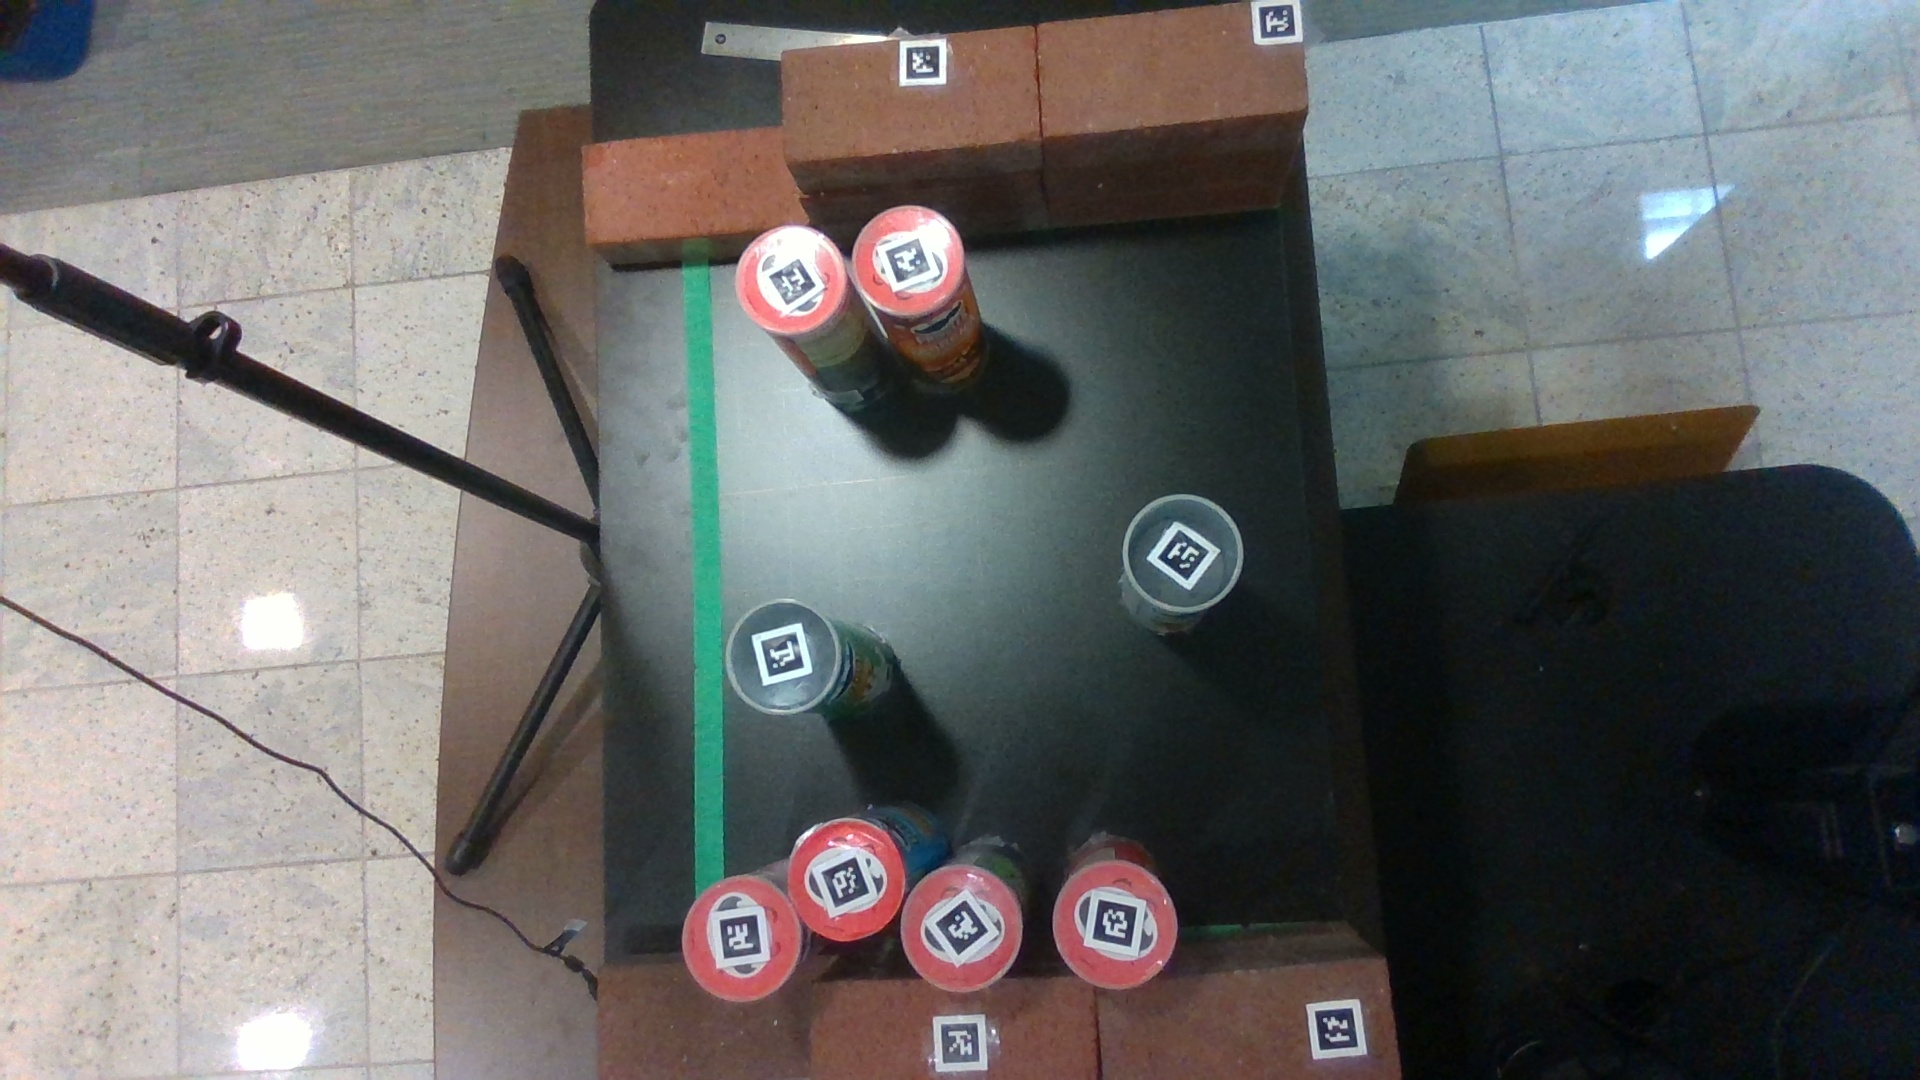
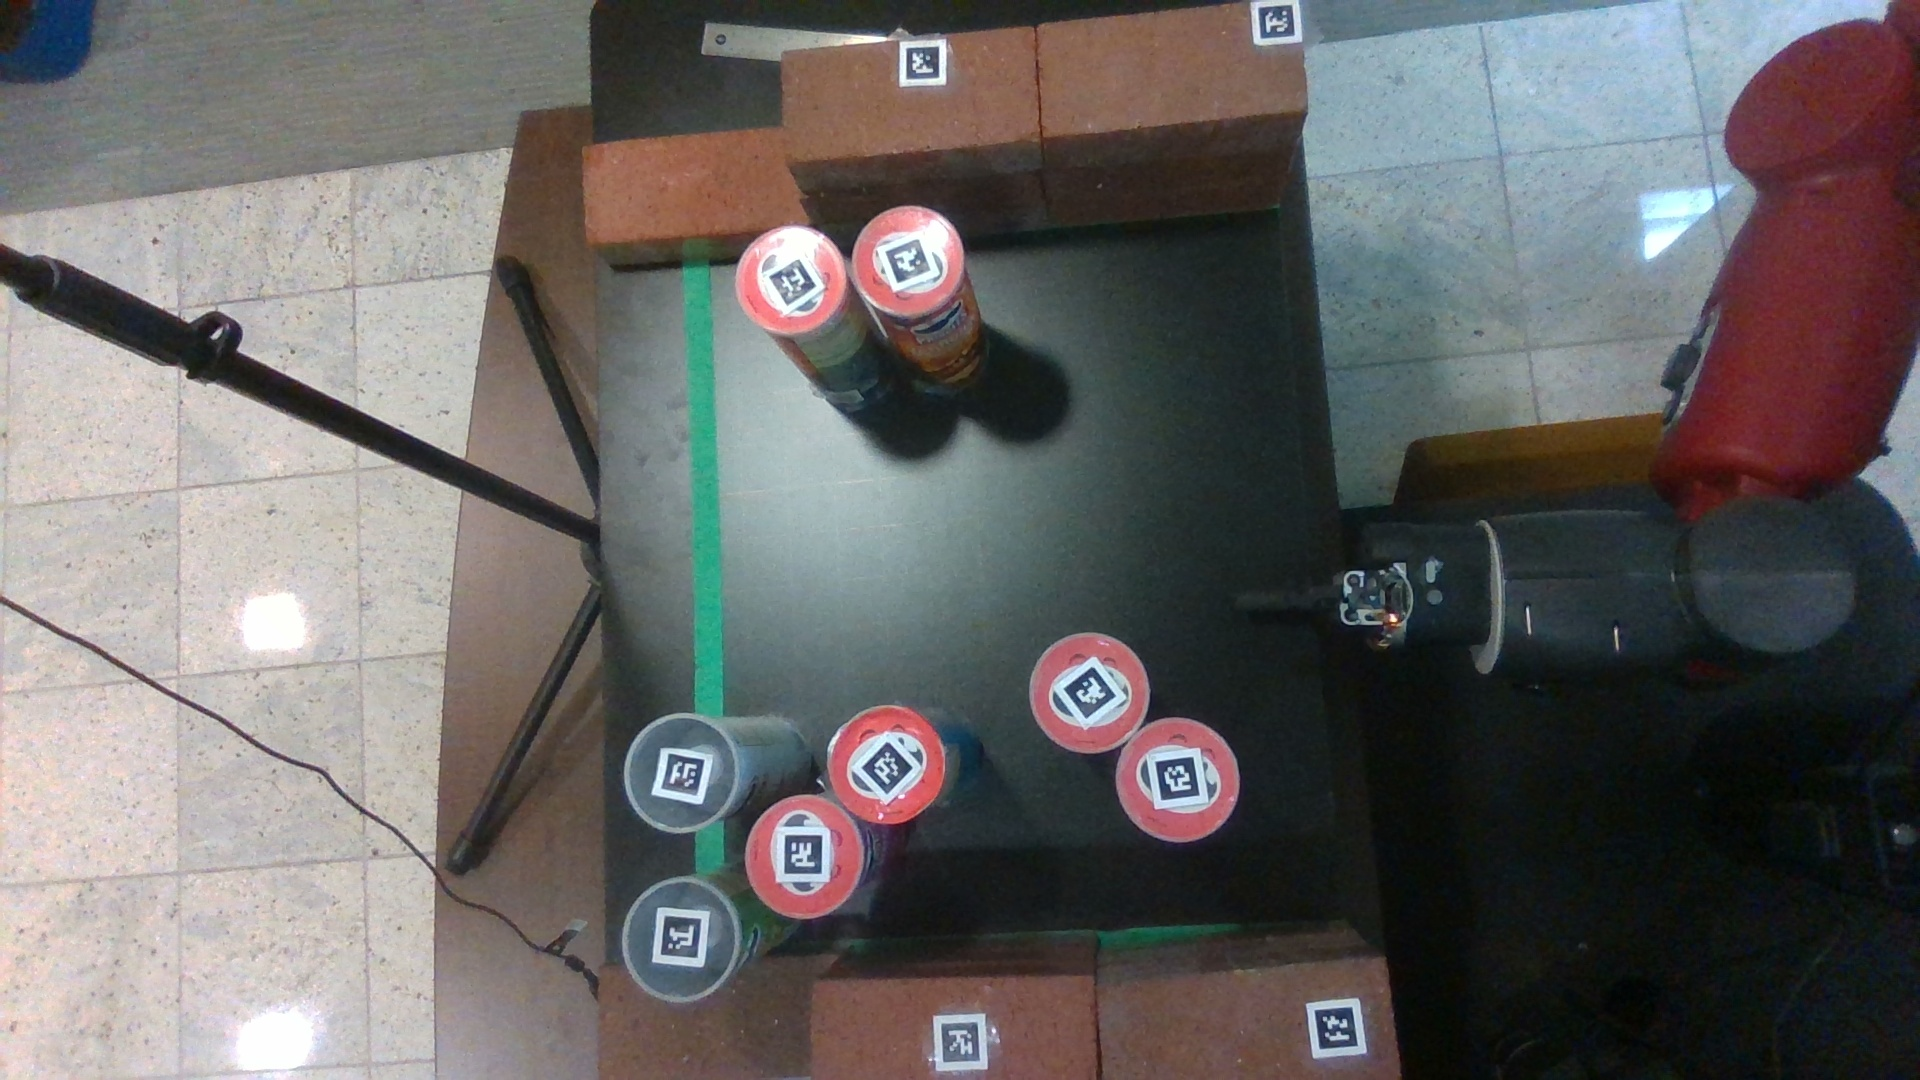
update

diff --git a/central_control.py b/central_control.py
@@ -258,12 +258,14 @@ def run_grasp(target):
     chirality = target[4] if len(target) > 4 else 'right'
     height = float(target[5]) if len(target) > 5 else 0.235
     radius = float(target[6]) if len(target) > 6 else 0.025
+    orientation = [-0.5169396533473932, 0.4994474561516194, -0.5531325099525974, 0.4211532497491772]
     input("Start?")
     grasp_cylinder(
         planner,
         height,
         radius,
         position,
+        orientation,
         grasping_group=chirality + "_hand",
         group_name=chirality + "_arm",
     )
@@ -461,6 +463,8 @@ if __name__ == '__main__':
     # real_perception(P)
     # real_get_arm_position()
 
+    # real_position_the_arm()
+
     # type_of_plan = sim_get_plan
     # type_of_plan = PHIA
     # pipeline(type_of_plan)
@@ -470,13 +474,13 @@ if __name__ == '__main__':
     #         os.path.dirname(os.path.abspath(__file__))),
     #     'config.txt')
 
-    target = [0.754, -0.479, 1.445]
+    target = [0.762, -0.244 + 0.56, 1.05]
     run_grasp(target)
 
     # real_execute()
     # sim_get_plan()
     # test()
-    # real_position_the_arm()
+
     # sim_spawn_objects()
     # spawning()
     # sim_delete_models()
